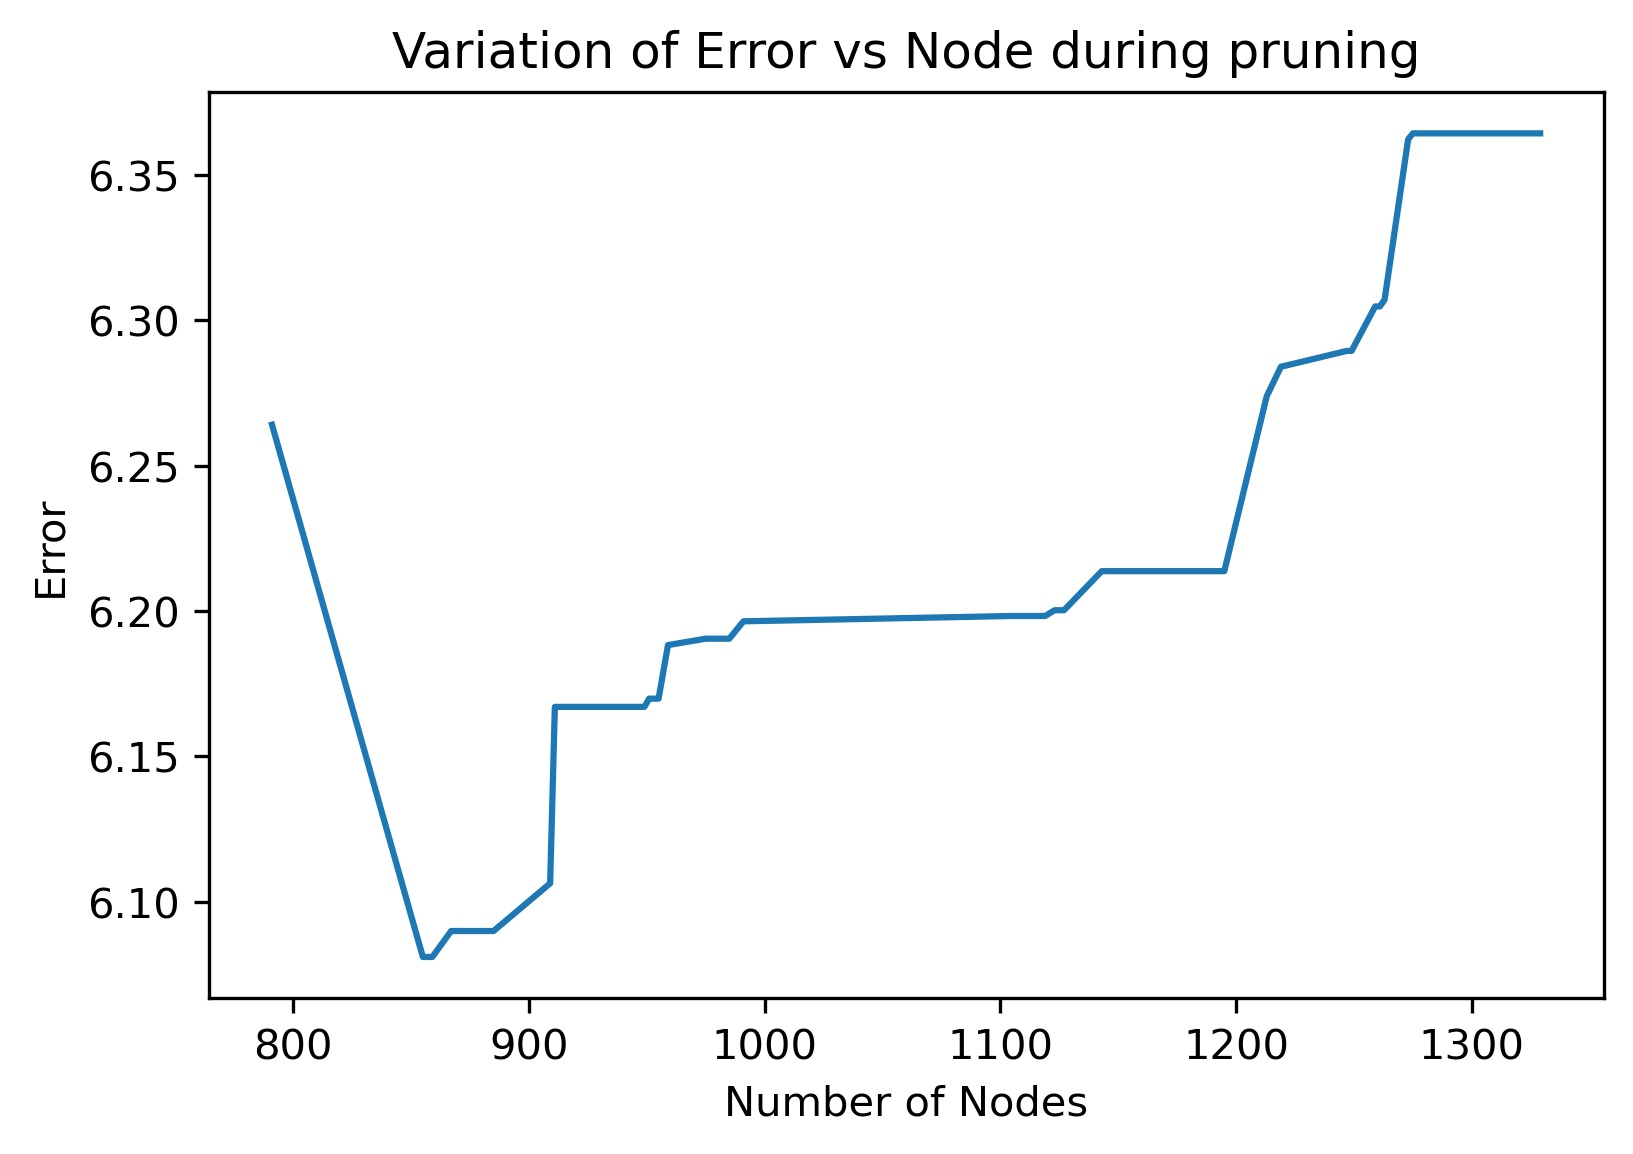
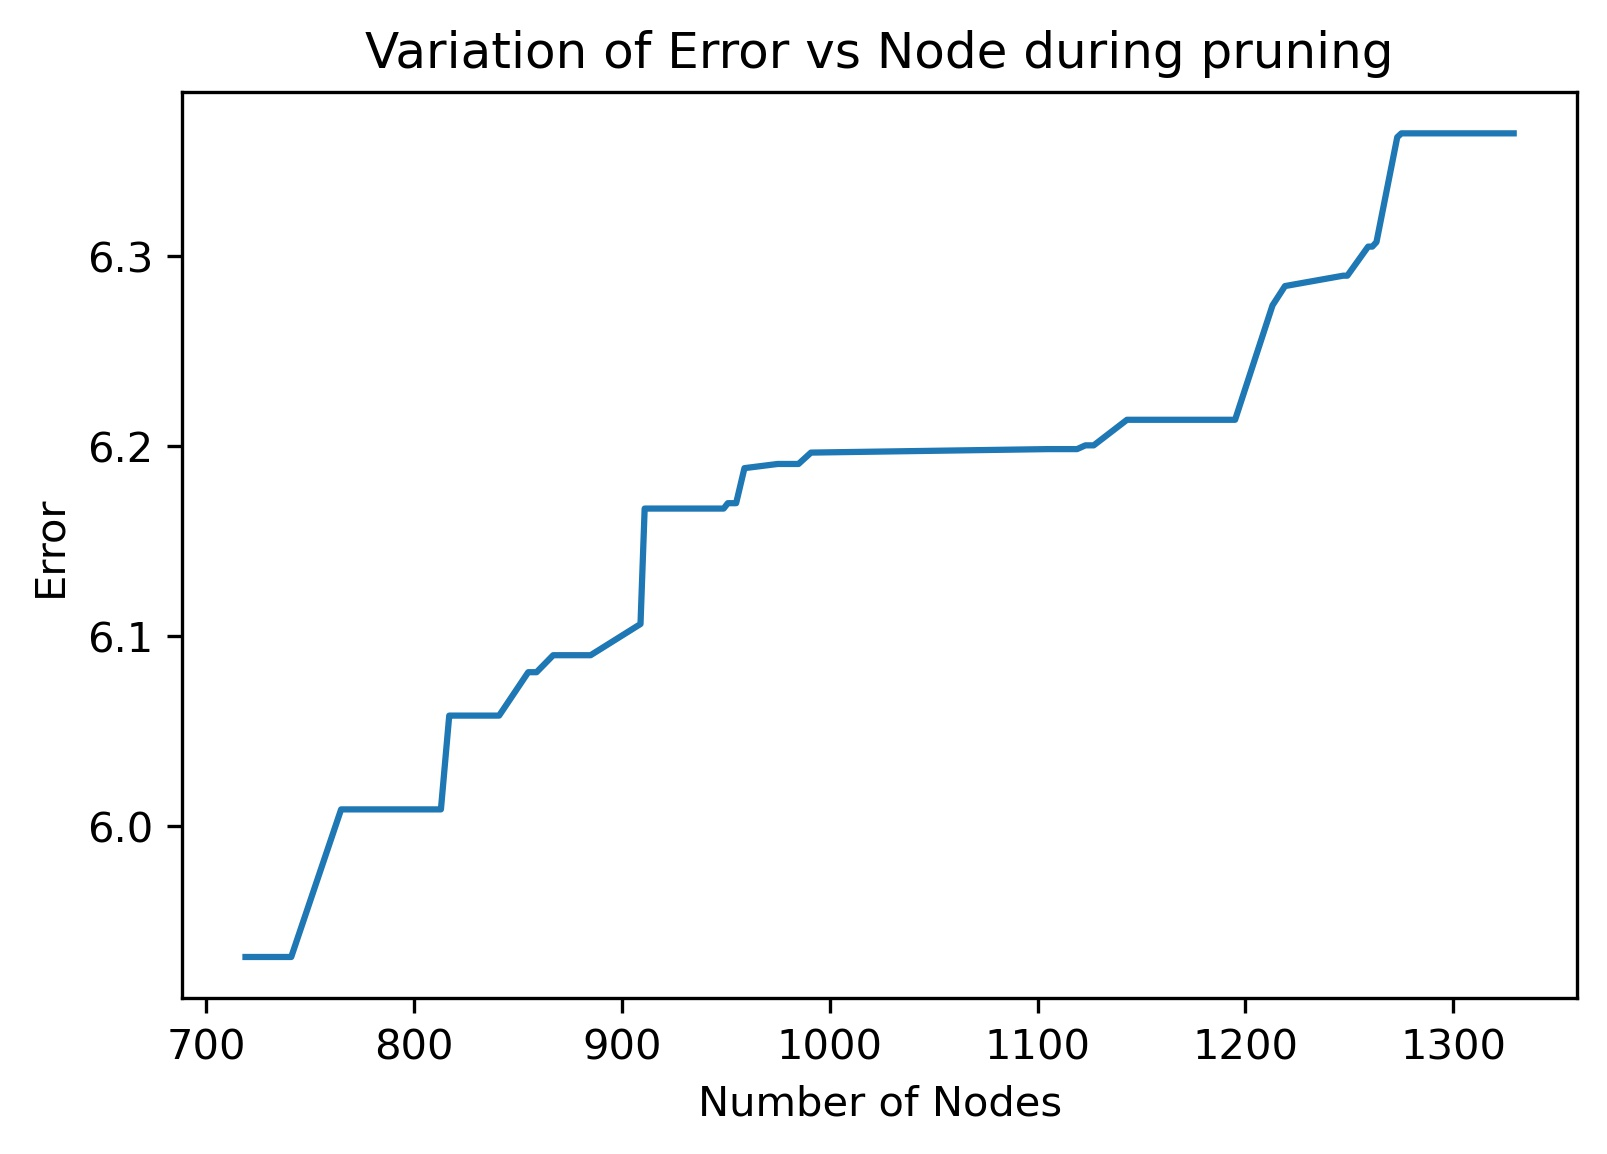
updates q1

diff --git a/Assignments/A1/Q1/B-tree.py b/Assignments/A1/Q1/B-tree.py
@@ -57,13 +57,15 @@ print("Violin Plot of the data: ")
 plt.figure(figsize=(10,10))
 sns.violinplot(x="features", y="value", data=data_vis, inner="quart")#violinplot represents the distribution pattern of each of the features
 plt.xticks(rotation=45);
+plt.savefig('Violin_Plot.jpg',bbox_inches='tight', dpi=300)
 plt.show()
 
 print("Box plot of the data: ")
 plt.figure(figsize=(10,10))
 sns.boxplot(x="features", y="value", data=data_vis)
 plt.xticks(rotation=45);
-plt.show
+plt.savefig('Box_Plot.jpg',bbox_inches='tight', dpi=300)
+plt.show()
 
 # #### To visualize individual  features' kernel density and pairwise scatter plots to look for correlation between different features.
 
@@ -74,12 +76,15 @@ df = X.loc[:,['cement','slag','flyash','water','superplasticizer','coarseaggrega
 g = sns.PairGrid(df, diag_sharey=False,corner=True);
 g.map_lower(sns.regplot,scatter_kws={"color": "red"}, line_kws={"color": "black"});
 g.map_diag(sns.kdeplot, lw=3);
+plt.savefig('Kernel_Scatter_Plot.jpg',bbox_inches='tight', dpi=300)
 plt.show()
 
 # #### To view how related two features are we plot the heatmap which actually represents the correlation of two features.  Correlation of 1 represents very strong positive correlation and correlation of -1 represents very strong negative correlation.
 print("Heatmap of the data: ")
 f,ax = plt.subplots(figsize=(11, 11))
 sns.heatmap(df.corr(), annot=True, linewidths=.5, fmt= '.1f',ax=ax);
+
+plt.savefig('HeatMap.jpg',bbox_inches='tight', dpi=300)
 plt.show()
 
 # #### Let us individually analyse the feature pair with the highest absolute value of correlation to check if the feature vectors are linearly dependent.
@@ -89,6 +94,8 @@ sns.jointplot(x = df.loc[:,'water'],
               y = df.loc[:,'superplasticizer'],
               kind="reg",
               color="#ce1414",line_kws={"color": "black"});
+
+plt.savefig('JointPlot.jpg',bbox_inches='tight', dpi=300)
 plt.show()
 
 # ### Training the model
@@ -375,7 +382,7 @@ for i in range(10): #repeat for 10 splits
     d_test_x = d_test.iloc[:,:-1].values#set test data feature matrix
     d_test_y = d_test.iloc[:,-1].values.reshape(-1,1)#set test data output label
     
-    regress_tree = RegressionTree(minimum_samples=3)#construct a regression tree of depth 30(arbitarily large to allow best tree depending upon training set)
+    regress_tree = RegressionTree(minimum_samples=1)#construct a regression tree allow best tree depending upon training set
     regress_tree.fit_model(d_train_x,d_train_y)
     y_pred_train = [regress_tree.predict(x,regress_tree.root)  for x in d_train_x]#construct the predicted output variable vector
     
@@ -405,7 +412,7 @@ nod = []#to store number of nodes
 print("Accuracy vs Depth and Number of nodes Analysis: ")
 for i in range(1,21):
     regress_tree = RegressionTree(minimum_samples=1, max_depth=i)
-    regress_tree.fit_model_depth(data_train_x,data_train_y)#train a tree of heights 1 to 30
+    regress_tree.fit_model_depth(data_train_x,data_train_y)#train a tree of heights 1 to 20
     nod.append(num_nodes(regress_tree.root))
     y_pred_train = [regress_tree.predict(x,regress_tree.root) for x in data_train_x] #calculate training error
     train.append(mean_error(y_pred_train,data_train_y,data_train_x.shape[0]))
@@ -424,6 +431,8 @@ plt.xlabel("Depth");
 plt.ylabel("Root Mean Squared Error");
 plt.title("Error vs Depth");
 plt.legend(['Train','Test']);
+
+plt.savefig('Error_vs_depth.jpg',bbox_inches='tight', dpi=300)
 plt.show()
 
 print("Error vs Number of Nodes plot: ")
@@ -434,24 +443,27 @@ plt.xlabel("Number of Nodes");
 plt.ylabel("Root Mean Squared Error");
 plt.title("Error vs Number of nodes");
 plt.legend(['Train','Test']);
+
+plt.savefig('Error_vs_NumNodes.jpg',bbox_inches='tight', dpi=300)
 plt.show()
 
-print("Optimal depth of tree: 15 ")
+print("Optimal depth of tree: 9 ")
 fig = plt.figure(figsize = (8,10))
 x = [i for i in range(1,21)] # plot how test and training error vary with depth of the tree
 plt.plot(x,train);
 plt.plot(x,test);
-plt.plot(np.full((30,1),15),np.arange(0,30))
+plt.plot(np.full((30,1),9),np.arange(0,30))
 plt.xlabel("Depth");
 plt.ylabel("Mean Squared Error");
 plt.title("Error vs Depth");
-plt.legend(['Train','Test']);
+plt.legend(['Train','Test','Optimal Depth']);
+plt.savefig('Optimal_depth.jpg',bbox_inches='tight', dpi=300)
 plt.show()
 
-# #### We can clearly see the optimal depth of the tree should be around 15 but our present tree has depth 30 which leads to overfitting. The train error has reduced significantly but the tree fails to generalize well on unseen data. Thus, Post-pruning is required.
+# #### We can clearly see the optimal depth of the tree should be around 9 but our present tree has depth 20 which leads to overfitting. The train error has reduced significantly but the tree fails to generalize well on unseen data. Thus, Post-pruning is required.
 
-regress_tree = RegressionTree(minimum_samples=3)
-regress_tree.fit_model(data_train_x,data_train_y)#train a tree of heights 30
+regress_tree = RegressionTree(minimum_samples=1)
+regress_tree.fit_model(data_train_x,data_train_y)#train a tree 
         
 y_original = [regress_tree.predict(x,regress_tree.root) for x in data_test_x] #calculate test error
 err = mean_error(y_original,data_test_y,data_test_x.shape[0])
@@ -483,7 +495,12 @@ y_pred_test = [regress_tree.predict(data = x,decision_tree=pruned) for x in data
 print("Error after pruning: ",mean_error(y_pred_test,data_test_y,data_test_x.shape[0]))
 print("Number of nodes after pruning: ",num_nodes(pruned))
 
-#plt.savefig('filename.jpg',bbox_inches='tight', dpi=300)
+
+optimal_tree = RegressionTree(minimum_samples=1, max_depth=9)
+optimal_tree.fit_model_depth(data_train_x,data_train_y)
+print("Optimal number of nodes: ",num_nodes(optimal_tree.root))
+
+
 
 print("Variation of Number of nodes with during pruning: ")
 nodes=[d[0]['num']] 
